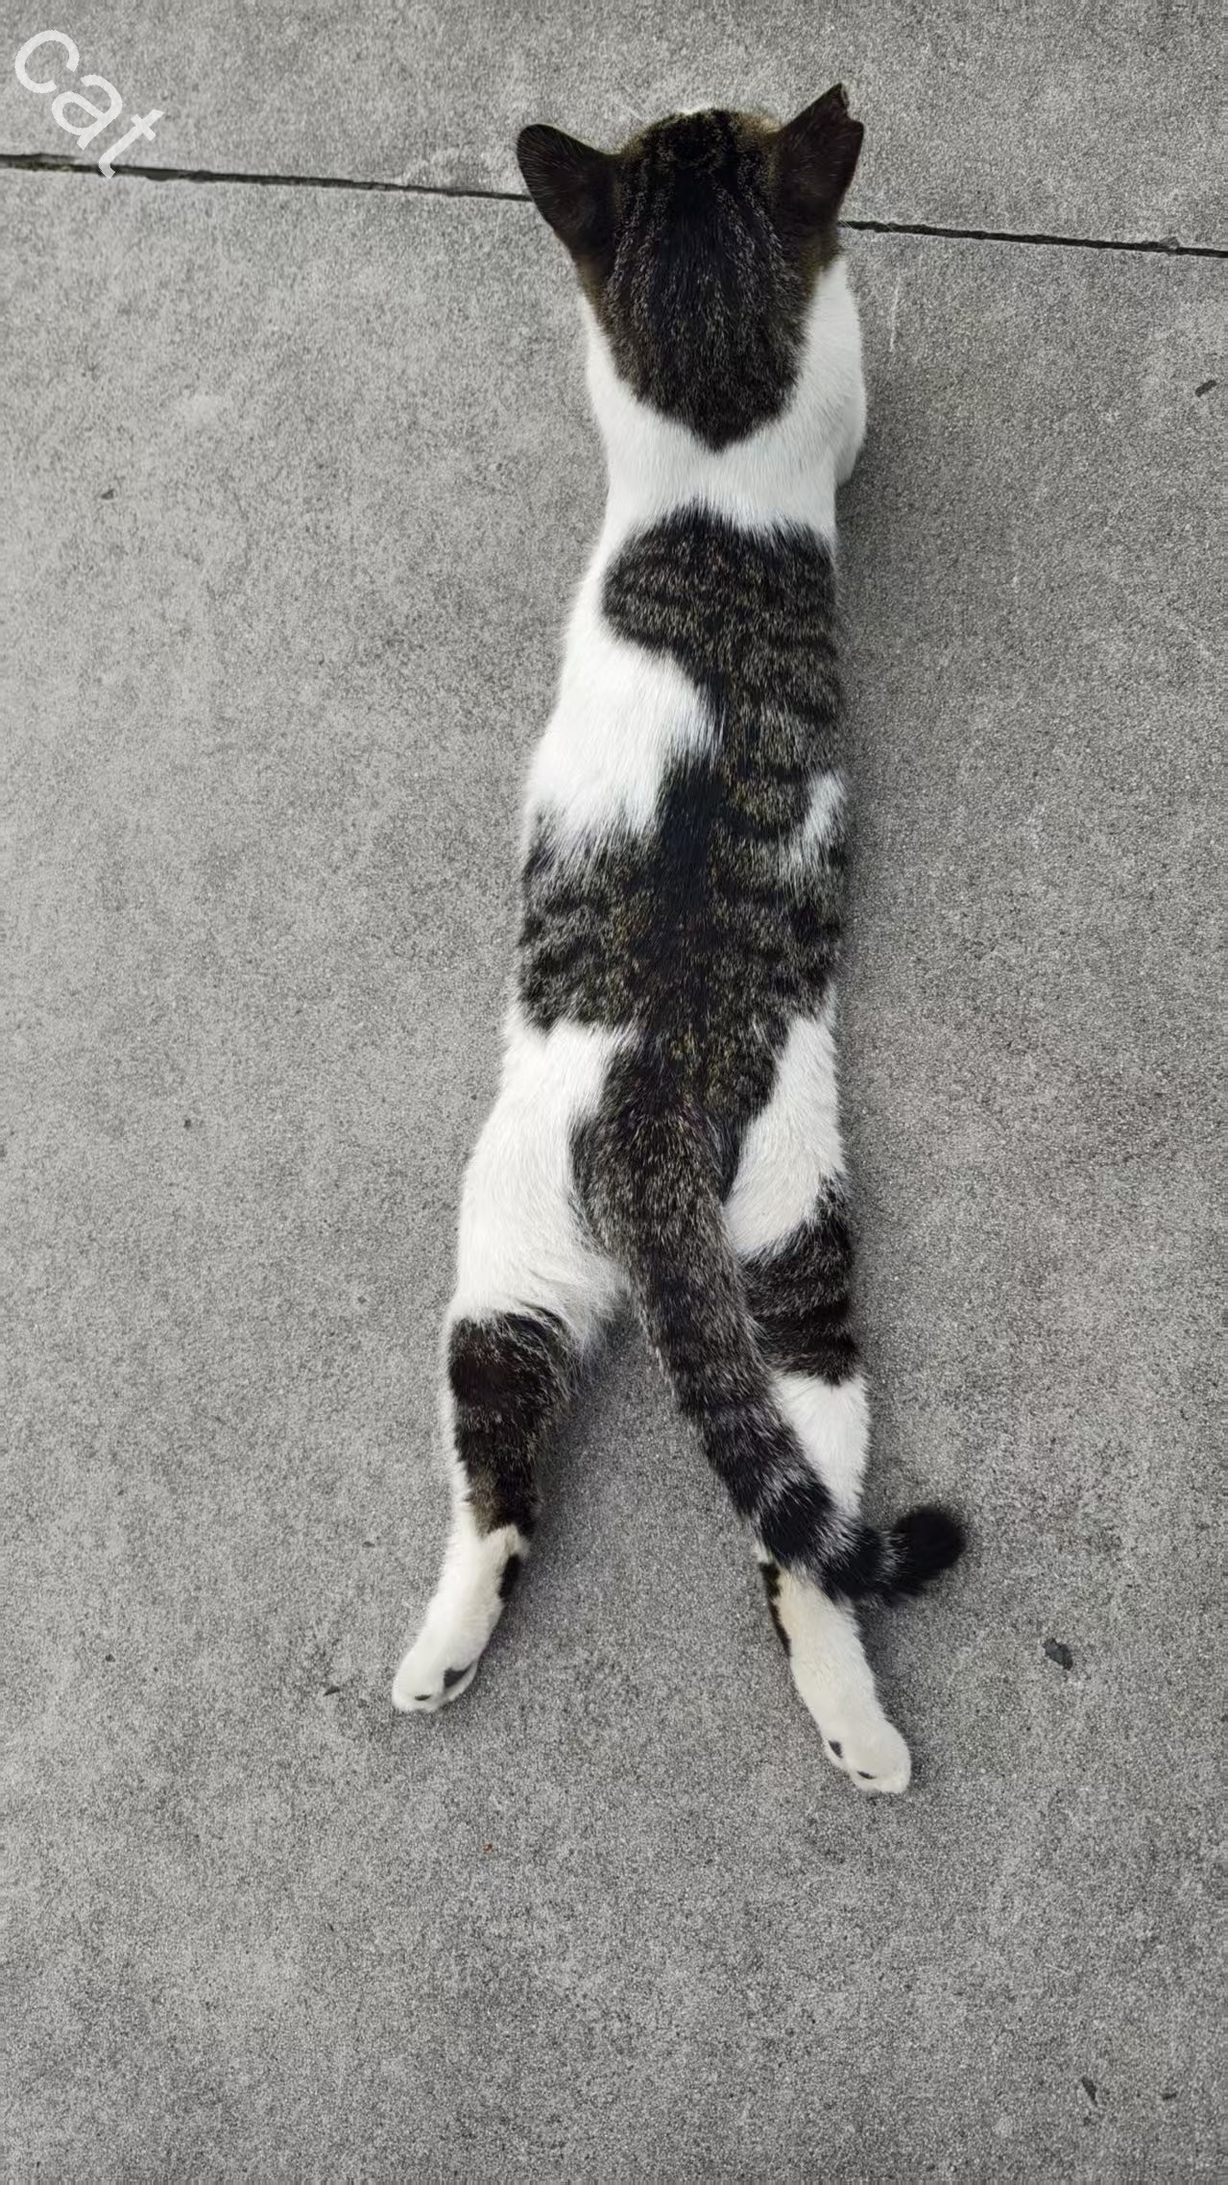
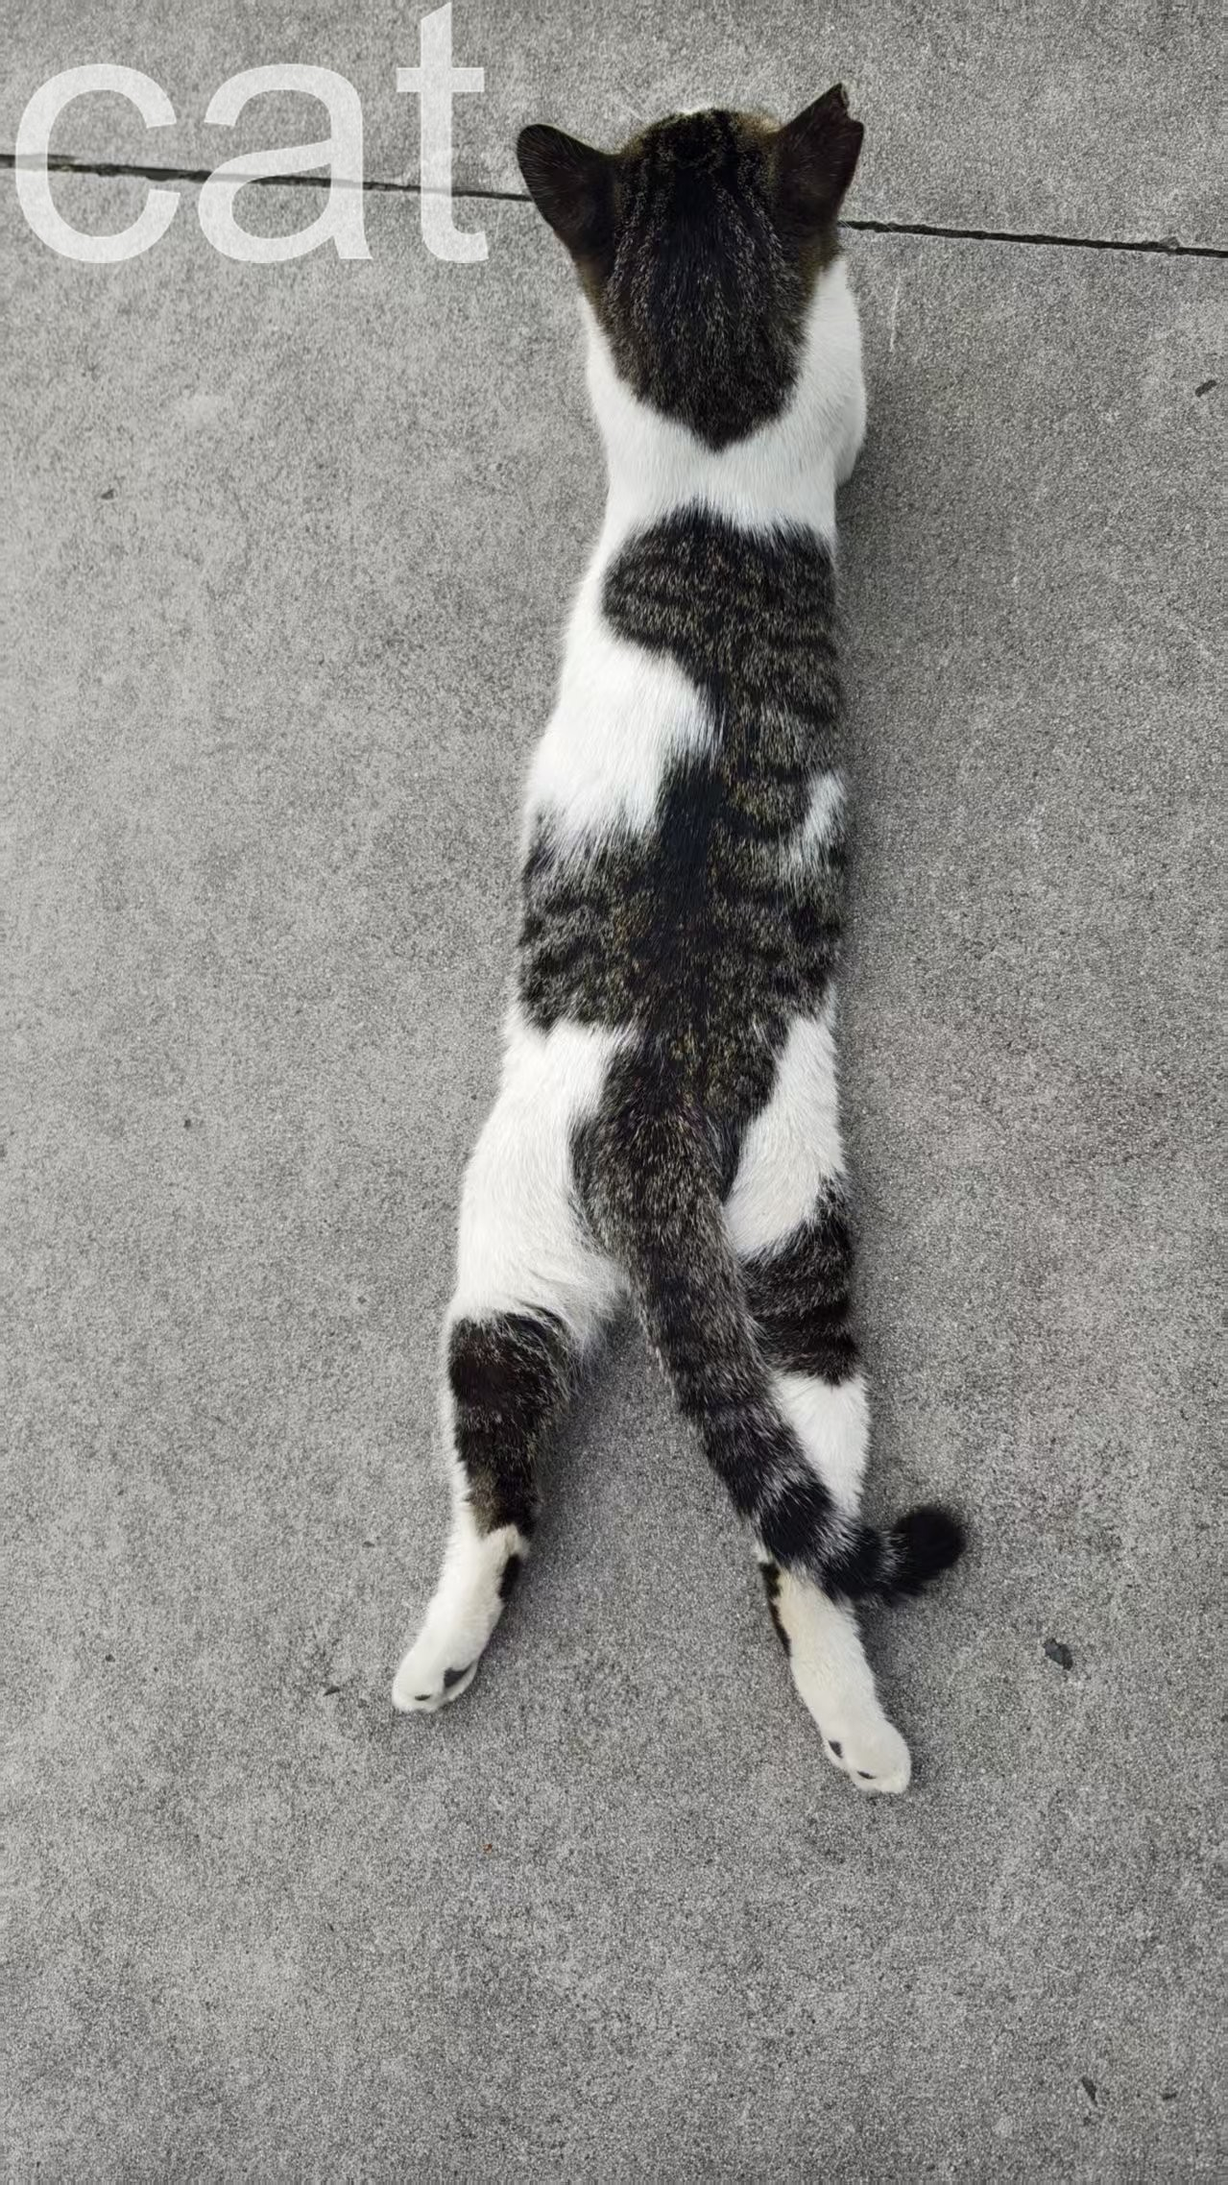
除斜体外其它文本水印的高级功能实现

Changed region(s): [[0.0, 0.0, 0.3964, 0.1248]]

diff --git a/Add_Watermark.py b/Add_Watermark.py
@@ -2,7 +2,7 @@ import sys
 import os
 from PyQt5.QtWidgets import (
     QApplication, QWidget, QVBoxLayout, QHBoxLayout, QLabel, QPushButton, QListWidget, QListWidgetItem,
-    QFileDialog, QLineEdit, QComboBox, QSlider, QDialog
+    QFileDialog, QLineEdit, QComboBox, QSlider, QDialog, QCheckBox, QColorDialog
 )
 from PyQt5.QtGui import QPixmap, QImage, QIcon, QColor, QMouseEvent
 from PyQt5.QtCore import Qt, QSize, QPoint
@@ -18,6 +18,8 @@ class WatermarkApp(QWidget):
         self.image_list = []
         self.current_image_path = None
         self.drag_position = QPoint(100, 100)  # 拖拽位置
+        self.text_color = QColor(255, 255, 255)  # 默认白色
+        self.scale_factor = 1.0  # 缩放因子
         self.init_ui()
 
     def init_ui(self):
@@ -58,6 +60,68 @@ class WatermarkApp(QWidget):
         text_layout.addWidget(self.text_edit)
         right_layout.addLayout(text_layout)
 
+        # 字体设置
+        font_layout = QHBoxLayout()
+        self.font_combo = QComboBox()
+        self.font_combo.addItems(["Arial", "Times New Roman", "SimHei", "Microsoft YaHei", "SimSun"])
+        self.font_combo.currentIndexChanged.connect(self.update_preview)
+        font_layout.addWidget(QLabel('字体:'))
+        font_layout.addWidget(self.font_combo)
+        
+        self.font_size_spin = QComboBox()
+        self.font_size_spin.addItems(["96", "128", "160", "192", "256", "320", "480", "640"])
+        self.font_size_spin.setCurrentText("96")
+        self.font_size_spin.currentTextChanged.connect(self.update_preview)
+        font_layout.addWidget(QLabel('字号:'))
+        font_layout.addWidget(self.font_size_spin)
+        
+        self.bold_check = QCheckBox('粗体')
+        self.bold_check.stateChanged.connect(self.update_preview)
+        font_layout.addWidget(self.bold_check)
+        
+        self.italic_check = QCheckBox('斜体')
+        self.italic_check.stateChanged.connect(self.update_preview)
+        font_layout.addWidget(self.italic_check)
+        
+        right_layout.addLayout(font_layout)
+
+        # 颜色和透明度
+        color_layout = QHBoxLayout()
+        self.color_btn = QPushButton('选择颜色')
+        self.color_btn.clicked.connect(self.choose_color)
+        color_layout.addWidget(QLabel('颜色:'))
+        color_layout.addWidget(self.color_btn)
+        
+        self.color_label = QLabel()
+        self.color_label.setFixedSize(30, 30)
+        self.color_label.setStyleSheet("background-color: white; border: 1px solid black;")
+        color_layout.addWidget(self.color_label)
+        
+        self.opacity_slider = QSlider(Qt.Horizontal)
+        self.opacity_slider.setRange(0, 100)
+        self.opacity_slider.setValue(80)
+        self.opacity_slider.valueChanged.connect(self.update_preview)
+        self.opacity_slider.valueChanged.connect(self.update_opacity_label)
+        color_layout.addWidget(QLabel('透明度:'))
+        color_layout.addWidget(self.opacity_slider)
+        
+        self.opacity_label = QLabel('80%')
+        color_layout.addWidget(self.opacity_label)
+        
+        right_layout.addLayout(color_layout)
+
+        # 阴影和描边效果
+        effect_layout = QHBoxLayout()
+        self.shadow_check = QCheckBox('阴影效果')
+        self.shadow_check.stateChanged.connect(self.update_preview)
+        effect_layout.addWidget(self.shadow_check)
+        
+        self.stroke_check = QCheckBox('描边效果')
+        self.stroke_check.stateChanged.connect(self.update_preview)
+        effect_layout.addWidget(self.stroke_check)
+        
+        right_layout.addLayout(effect_layout)
+
         # 九宫格布局
         grid_layout = QHBoxLayout()
         self.grid_combo = QComboBox()
@@ -76,6 +140,20 @@ class WatermarkApp(QWidget):
         rotate_layout.addWidget(QLabel('旋转角度:'))
         rotate_layout.addWidget(self.rotate_slider)
         right_layout.addLayout(rotate_layout)
+
+        # 缩放控制
+        scale_layout = QHBoxLayout()
+        self.scale_slider = QSlider(Qt.Horizontal)
+        self.scale_slider.setRange(50, 1000)  # 50% 到 1000%
+        self.scale_slider.setValue(200)
+        self.scale_slider.valueChanged.connect(self.update_preview)
+        self.scale_slider.valueChanged.connect(self.update_scale_label)
+        scale_layout.addWidget(QLabel('缩放比例:'))
+        scale_layout.addWidget(self.scale_slider)
+        
+        self.scale_label = QLabel('200%')
+        scale_layout.addWidget(self.scale_label)
+        right_layout.addLayout(scale_layout)
 
         # 导出按钮
         self.export_btn = QPushButton('导出水印图片')
@@ -148,11 +226,14 @@ class WatermarkApp(QWidget):
         y = max(0, min(self.drag_position.y(), h - wh))
         return (x, y)
 
-    # 鼠标事件处理 - 拖拽功能
+    # 鼠标事件处理 - 拖拽和缩放功能
     def preview_mouse_press(self, event: QMouseEvent):
         if event.button() == Qt.LeftButton:
             self.drag_start = event.pos()
             self.dragging = True
+        elif event.button() == Qt.RightButton:
+            self.scale_start = event.pos()
+            self.scaling = True
 
     def preview_mouse_move(self, event: QMouseEvent):
         if hasattr(self, 'dragging') and self.dragging:
@@ -161,10 +242,80 @@ class WatermarkApp(QWidget):
             self.drag_position += delta
             self.drag_start = event.pos()
             self.update_preview()
+        elif hasattr(self, 'scaling') and self.scaling:
+            # 更新缩放比例（右键拖拽垂直方向）
+            delta_y = event.pos().y() - self.scale_start.y()
+            scale_change = delta_y / 10.0  # 每10像素改变1%
+            new_scale = max(50, min(1000, self.scale_slider.value() - scale_change))
+            self.scale_slider.setValue(int(new_scale))
+            self.scale_start = event.pos()
 
     def preview_mouse_release(self, event: QMouseEvent):
         if event.button() == Qt.LeftButton:
             self.dragging = False
+        elif event.button() == Qt.RightButton:
+            self.scaling = False
+
+    def choose_color(self):
+        color = QColorDialog.getColor(self.text_color, self, "选择水印颜色")
+        if color.isValid():
+            self.text_color = color
+            self.color_label.setStyleSheet(f"background-color: {color.name()}; border: 1px solid black;")
+            self.update_preview()
+
+    def update_opacity_label(self, value):
+        self.opacity_label.setText(f"{value}%")
+
+    def update_scale_label(self, value):
+        self.scale_label.setText(f"{value}%")
+
+    def get_font_style(self):
+        """获取字体样式设置"""
+        font_name = self.font_combo.currentText()
+        font_size = int(self.font_size_spin.currentText())
+        
+        # 构建字体样式字符串
+        style = ""
+        if self.bold_check.isChecked():
+            style += "bold "
+        if self.italic_check.isChecked():
+            style += "italic "
+        
+        return font_name, font_size, style.strip()
+
+    def apply_text_effects(self, draw, text, position, font, color):
+        """应用文本效果（阴影、描边和斜体）"""
+        if self.shadow_check.isChecked():
+            # 添加阴影效果
+            shadow_color = (0, 0, 0, color[3])  # 黑色阴影
+            shadow_offset = 2
+            draw.text((position[0] + shadow_offset, position[1] + shadow_offset), 
+                     text, font=font, fill=shadow_color)
+        
+        if self.stroke_check.isChecked():
+            # 添加描边效果
+            stroke_color = (0, 0, 0, color[3])  # 黑色描边
+            stroke_width = 2
+            for dx in range(-stroke_width, stroke_width + 1):
+                for dy in range(-stroke_width, stroke_width + 1):
+                    if dx != 0 or dy != 0:
+                        draw.text((position[0] + dx, position[1] + dy), 
+                                 text, font=font, fill=stroke_color)
+        
+        # 绘制主文本
+        if self.italic_check.isChecked():
+            # 使用简单的斜体模拟 - 在多个位置绘制文本创建倾斜效果
+            base_x, base_y = position
+            # 绘制多个轻微偏移的文本来模拟斜体
+            for offset in range(3):
+                # 每个偏移位置的透明度逐渐降低
+                alpha_factor = 1.0 - (offset * 0.2)
+                italic_alpha = int(color[3] * alpha_factor)
+                italic_color = (color[0], color[1], color[2], italic_alpha)
+                draw.text((base_x + offset, base_y), text, font=font, fill=italic_color)
+        else:
+            # 正常绘制文本
+            draw.text(position, text, font=font, fill=color)
 
     def update_preview(self):
         if not self.current_image_path:
@@ -178,18 +329,58 @@ class WatermarkApp(QWidget):
         # 获取水印文本
         text = self.text_edit.text().strip()
         if not text:
-            text = "水印文本"
+            text = "watermark"
             
-        # 使用默认字体设置
+        # 使用用户设置的字体、颜色和透明度
+        font_name, font_size, font_style = self.get_font_style()
+        opacity = self.opacity_slider.value() / 100.0  # 透明度百分比转小数
+        color = (self.text_color.red(), self.text_color.green(), self.text_color.blue(), int(255 * opacity))
+        scale_factor = self.scale_slider.value() / 100.0  # 缩放因子
+        
         try:
-            # 尝试加载系统字体，设置合适的大小
-            font = ImageFont.truetype("arial.ttf", 128)  # 使用128号字体
+            # 尝试加载用户选择的字体（应用缩放，使用更高质量）
+            scaled_font_size = max(10, int(font_size * scale_factor))
+            
+            # 应用粗体和斜体效果
+            if self.bold_check.isChecked() and self.italic_check.isChecked():
+                # 粗体+斜体
+                try:
+                    font = ImageFont.truetype(font_name, scaled_font_size, encoding="unic", index=3)
+                except:
+                    font = ImageFont.truetype(font_name, int(scaled_font_size * 1.1), encoding="unic")
+            elif self.bold_check.isChecked():
+                # 仅粗体
+                try:
+                    font = ImageFont.truetype(font_name, scaled_font_size, encoding="unic", index=1)
+                except:
+                    font = ImageFont.truetype(font_name, int(scaled_font_size * 1.1), encoding="unic")
+            elif self.italic_check.isChecked():
+                # 仅斜体 - 使用倾斜变换来模拟斜体效果
+                font = ImageFont.truetype(font_name, scaled_font_size, encoding="unic")
+                # 斜体效果将在后续的文本绘制中处理
+            else:
+                # 正常字体
+                font = ImageFont.truetype(font_name, scaled_font_size, encoding="unic")
+                
         except:
-            # 如果失败，使用默认字体但设置更大尺寸
-            font = ImageFont.load_default()
-            # 对于默认字体，我们需要使用更大的尺寸
-        opacity = 0.8  # 默认透明度80%
-        color = (255, 255, 255, int(255 * opacity))  # 默认白色
+            # 如果失败，尝试使用其他字体
+            try:
+                # 尝试使用Arial字体
+                font = ImageFont.truetype("arial.ttf", scaled_font_size, encoding="unic")
+                
+                # 应用粗体和斜体效果
+                if self.bold_check.isChecked():
+                    try:
+                        font = ImageFont.truetype("arialbd.ttf", scaled_font_size, encoding="unic")
+                    except:
+                        bold_size = int(scaled_font_size * 1.1)
+                        font = ImageFont.truetype("arial.ttf", bold_size, encoding="unic")
+                        
+            except:
+                # 如果都失败，使用默认字体但设置更大的尺寸
+                font = ImageFont.load_default()
+                # 对于默认字体，我们需要使用更大的尺寸
+                scaled_font_size = max(10, int(font_size * scale_factor * 3))  # 默认字体三倍大小
             
         # 计算文本尺寸
         # 先创建一个临时图像来计算文本尺寸
@@ -215,12 +406,32 @@ class WatermarkApp(QWidget):
         txt_img = Image.new('RGBA', (w, h), (255, 255, 255, 0))
         draw = ImageDraw.Draw(txt_img)
         
-        # 绘制文本到水印图层（考虑基线偏移）
-        draw.text((-bbox[0], -bbox[1]), text, font=font, fill=color)
+        # 绘制文本到水印图层（考虑基线偏移，并应用效果）
+        self.apply_text_effects(draw, text, (-bbox[0], -bbox[1]), font, color)
         
         # 应用旋转（围绕水印自身中心）
         if angle != 0:
             txt_img = txt_img.rotate(angle, expand=1, center=(w//2, h//2))
+            # 旋转后水印尺寸可能变化，需要重新计算位置
+            w, h = txt_img.size
+            if hasattr(self, 'dragging') and self.dragging:
+                pos = self.get_drag_position(preview.size, (w, h))
+            else:
+                pos = self.get_grid_position(preview.size, (w, h))
+        
+        # 应用额外的图像缩放来获得更大的水印
+        if scale_factor > 1.0:
+            # 如果缩放因子大于1，使用图像缩放来进一步放大
+            additional_scale = min(3.0, scale_factor)  # 最大额外缩放3倍
+            new_width = int(w * additional_scale)
+            new_height = int(h * additional_scale)
+            txt_img = txt_img.resize((new_width, new_height), Image.LANCZOS)
+            w, h = new_width, new_height
+            # 重新计算位置
+            if hasattr(self, 'dragging') and self.dragging:
+                pos = self.get_drag_position(preview.size, (w, h))
+            else:
+                pos = self.get_grid_position(preview.size, (w, h))
         
         # 将旋转后的水印放置到正确位置
         final_img = Image.new('RGBA', preview.size, (255, 255, 255, 0))
@@ -244,16 +455,27 @@ class WatermarkApp(QWidget):
         if not text:
             text = "水印文本"
             
-        # 使用默认字体设置
+        # 使用用户设置的字体、颜色和透明度
+        font_name, font_size, font_style = self.get_font_style()
+        opacity = self.opacity_slider.value() / 100.0  # 透明度百分比转小数
+        color = (self.text_color.red(), self.text_color.green(), self.text_color.blue(), int(255 * opacity))
+        scale_factor = self.scale_slider.value() / 100.0  # 缩放因子
+        
         try:
-            # 尝试加载系统字体，设置合适的大小
-            font = ImageFont.truetype("arial.ttf", 128)  # 使用128号字体
+            # 尝试加载用户选择的字体（应用缩放，使用更高质量）
+            scaled_font_size = max(10, int(font_size * scale_factor))
+            # 使用更高质量的字体加载方式
+            font = ImageFont.truetype(font_name, scaled_font_size, encoding="unic")
         except:
-            # 如果失败，使用默认字体但设置更大尺寸
-            font = ImageFont.load_default()
-            # 对于默认字体，我们需要使用更大的尺寸
-        opacity = 0.8  # 默认透明度80%
-        color = (255, 255, 255, int(255 * opacity))  # 默认白色
+            # 如果失败，尝试使用其他字体
+            try:
+                # 尝试使用Arial字体
+                font = ImageFont.truetype("arial.ttf", scaled_font_size, encoding="unic")
+            except:
+                # 如果都失败，使用默认字体但设置更大的尺寸
+                font = ImageFont.load_default()
+                # 对于默认字体，我们需要使用更大的尺寸
+                scaled_font_size = max(10, int(font_size * scale_factor * 3))  # 默认字体三倍大小
             
         # 计算文本尺寸
         temp_img = Image.new('RGBA', (1, 1), (255, 255, 255, 0))
@@ -271,12 +493,26 @@ class WatermarkApp(QWidget):
         txt_img = Image.new('RGBA', (w, h), (255, 255, 255, 0))
         draw = ImageDraw.Draw(txt_img)
         
-        # 绘制文本到水印图层（考虑基线偏移）
-        draw.text((-bbox[0], -bbox[1]), text, font=font, fill=color)
+        # 绘制文本到水印图层（考虑基线偏移，并应用效果）
+        self.apply_text_effects(draw, text, (-bbox[0], -bbox[1]), font, color)
         
         # 应用旋转（围绕水印自身中心）
         if angle != 0:
             txt_img = txt_img.rotate(angle, expand=1, center=(w//2, h//2))
+            # 旋转后水印尺寸可能变化，需要重新计算位置
+            w, h = txt_img.size
+            pos = self.get_drag_position(img.size, (w, h))
+        
+        # 应用额外的图像缩放来获得更大的水印
+        if scale_factor > 1.0:
+            # 如果缩放因子大于1，使用图像缩放来进一步放大
+            additional_scale = min(3.0, scale_factor)  # 最大额外缩放3倍
+            new_width = int(w * additional_scale)
+            new_height = int(h * additional_scale)
+            txt_img = txt_img.resize((new_width, new_height), Image.LANCZOS)
+            w, h = new_width, new_height
+            # 重新计算位置
+            pos = self.get_drag_position(img.size, (w, h))
         
         # 将旋转后的水印放置到正确位置
         final_img = Image.new('RGBA', img.size, (255, 255, 255, 0))
